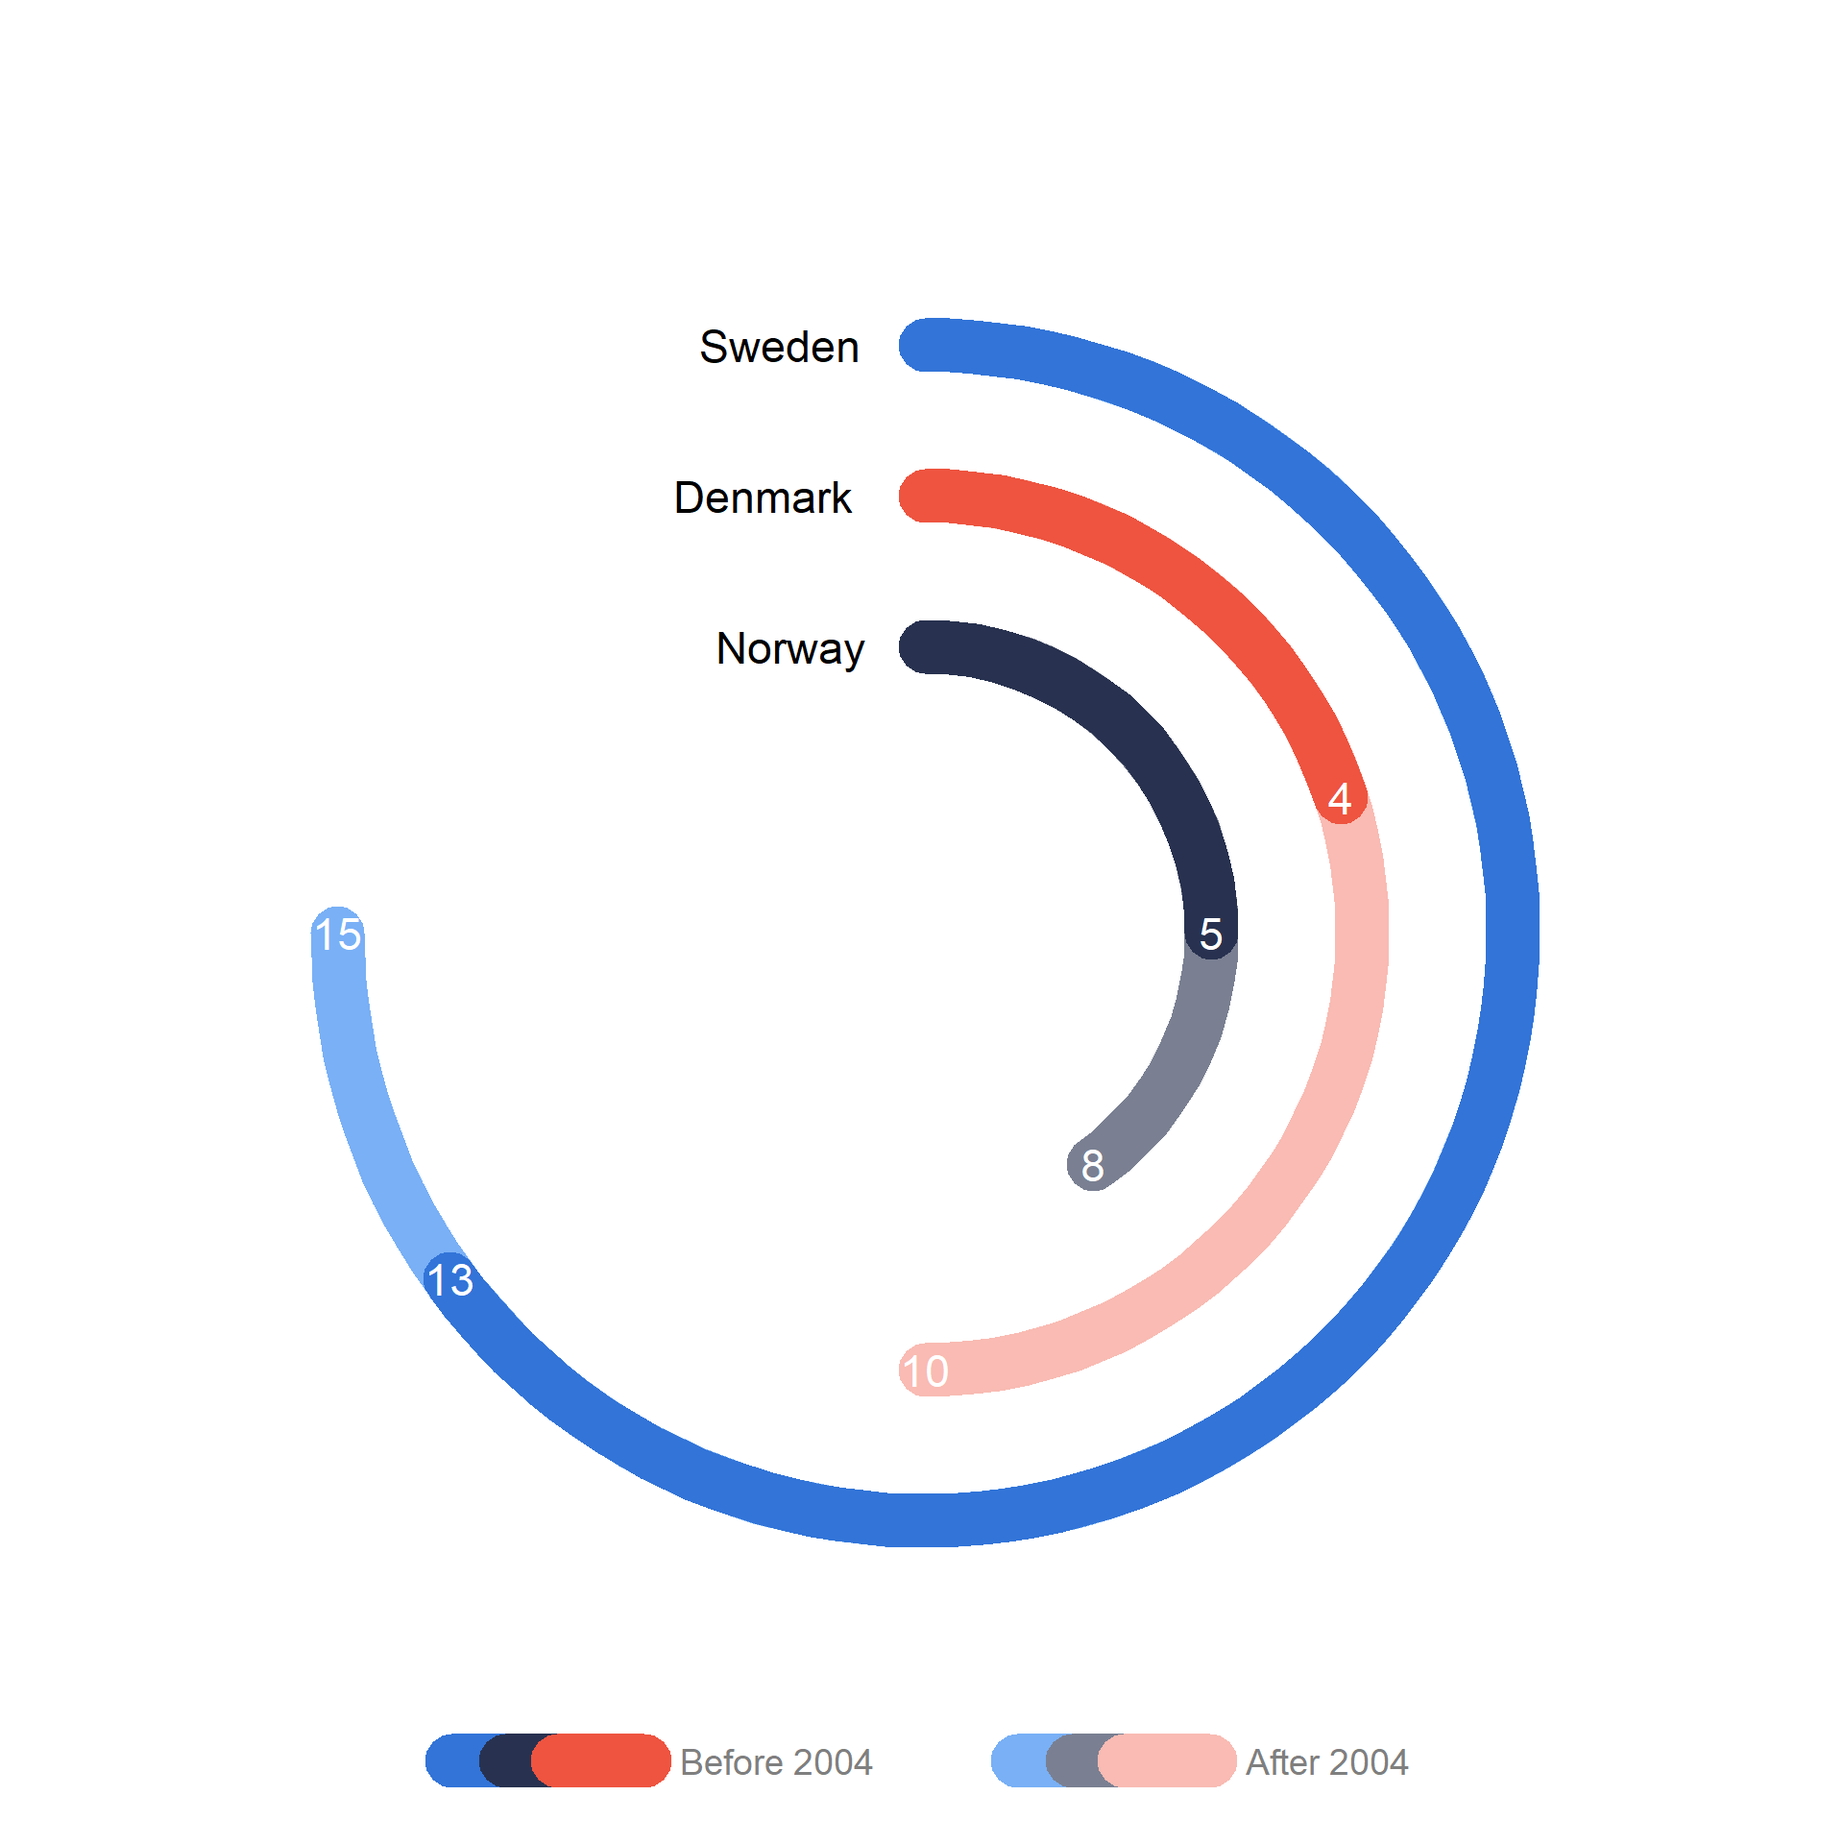
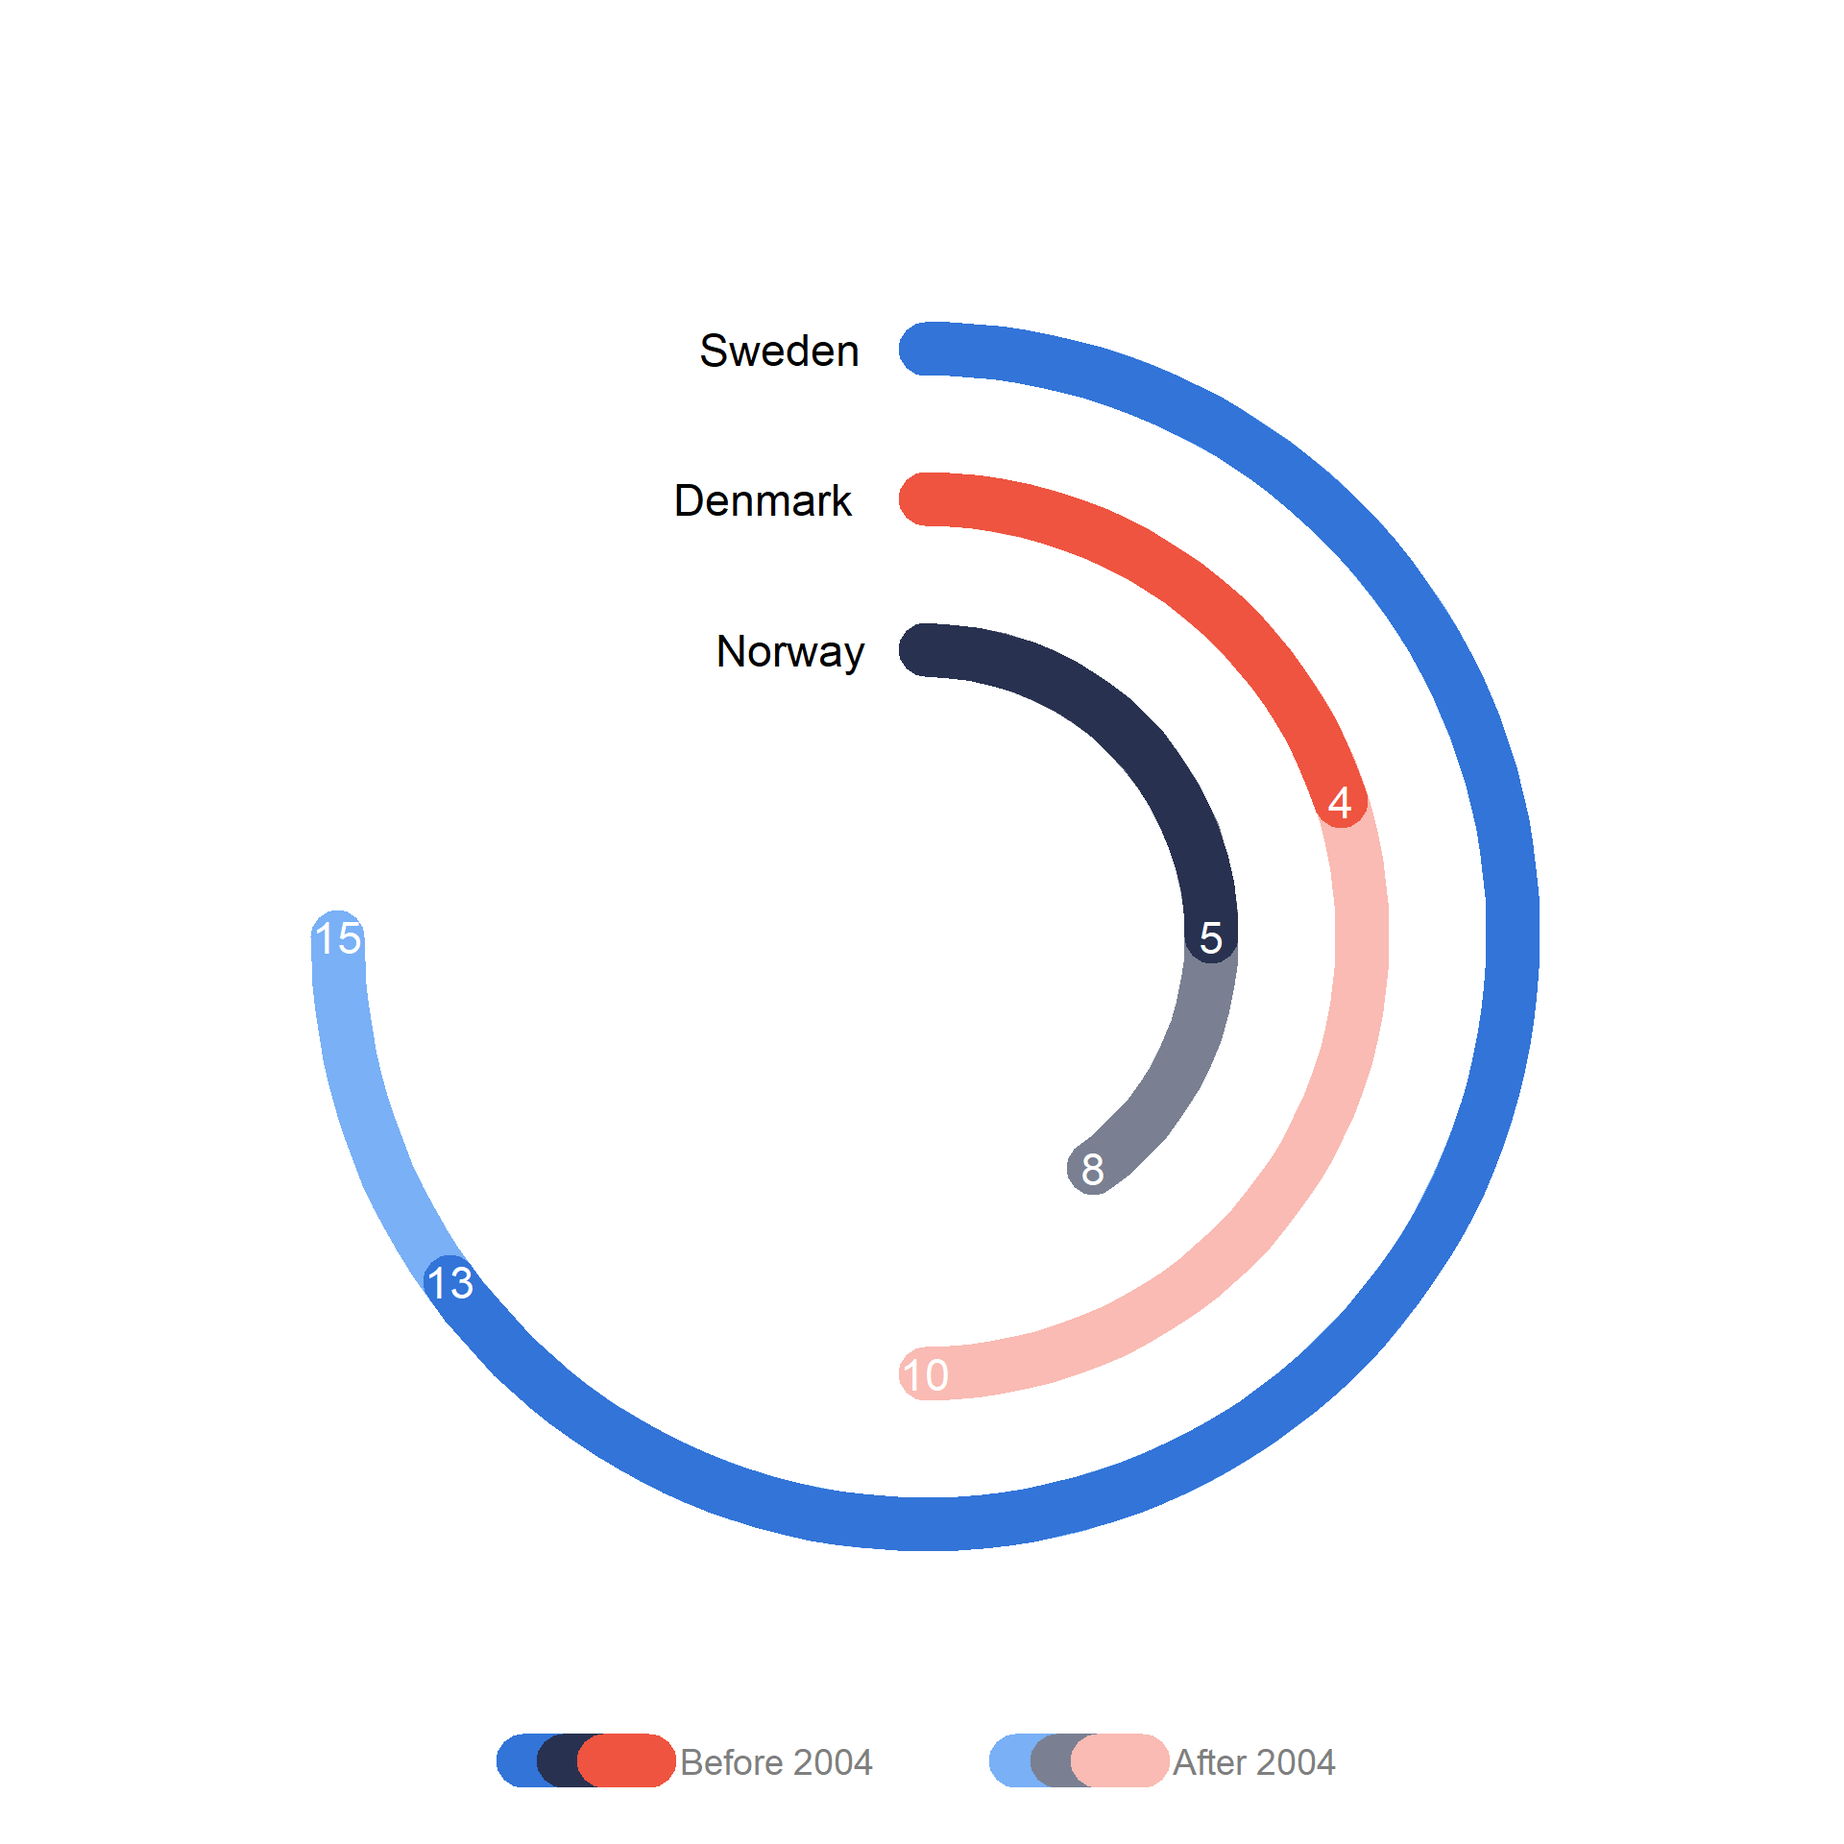
0.112

diff --git a/docs/radial.html b/docs/radial.html
@@ -856,7 +856,7 @@ pre > code.sourceCode > span > a:first-child::before { text-decoration: underlin
 <span>            <span class="fu"><a href="https://ggplot2.tidyverse.org/reference/aes.html">aes</a></span><span class="op">(</span>x <span class="op">=</span> <span class="fl">0</span>, <span class="va">y</span>, label <span class="op">=</span> <span class="va">country</span><span class="op">)</span>, size <span class="op">=</span> <span class="fl">6</span>, hjust <span class="op">=</span> <span class="fl">1.4</span><span class="op">)</span> <span class="op">+</span></span>
 <span>  <span class="fu"><a href="https://ggplot2.tidyverse.org/reference/scale_manual.html">scale_color_manual</a></span><span class="op">(</span>values <span class="op">=</span> <span class="va">cols1</span><span class="op">)</span> <span class="op">+</span></span>
 <span>  <span class="fu"><a href="https://ggplot2.tidyverse.org/reference/guides.html">guides</a></span><span class="op">(</span>color <span class="op">=</span> <span class="fu"><a href="https://ggplot2.tidyverse.org/reference/guide_legend.html">guide_legend</a></span><span class="op">(</span>title <span class="op">=</span> <span class="fu"><a href="https://rdrr.io/r/base/paste.html">paste0</a></span><span class="op">(</span><span class="fu"><a href="https://rdrr.io/r/base/strrep.html">strrep</a></span><span class="op">(</span><span class="st">" "</span>, <span class="fl">7</span><span class="op">)</span>, <span class="st">"After 2004"</span><span class="op">)</span>,</span>
-<span>                              override.aes <span class="op">=</span> <span class="fu"><a href="https://rdrr.io/r/base/list.html">list</a></span><span class="op">(</span>size <span class="op">=</span> <span class="fu"><a href="https://rdrr.io/r/base/c.html">c</a></span><span class="op">(</span><span class="fl">5</span>, <span class="fl">5</span>, <span class="fl">5</span><span class="op">)</span><span class="op">)</span>,</span>
+<span>                              override.aes <span class="op">=</span> <span class="fu"><a href="https://rdrr.io/r/base/list.html">list</a></span><span class="op">(</span>size <span class="op">=</span> <span class="fu"><a href="https://rdrr.io/r/base/c.html">c</a></span><span class="op">(</span><span class="fl">3</span>, <span class="fl">4</span>, <span class="op">-</span><span class="fl">2</span><span class="op">)</span><span class="op">)</span>,</span>
 <span>                              reverse <span class="op">=</span> <span class="cn">TRUE</span>,</span>
 <span>                              keywidth <span class="op">=</span> <span class="fl">1.5</span>, </span>
 <span>                              title.position <span class="op">=</span> <span class="st">"right"</span><span class="op">)</span><span class="op">)</span> <span class="op">+</span></span>
@@ -870,7 +870,7 @@ pre > code.sourceCode > span > a:first-child::before { text-decoration: underlin
 <span>  <span class="fu"><a href="https://ggplot2.tidyverse.org/reference/scale_continuous.html">scale_x_continuous</a></span><span class="op">(</span>limits <span class="op">=</span> <span class="fu"><a href="https://rdrr.io/r/base/c.html">c</a></span><span class="op">(</span><span class="fl">0</span>, <span class="fl">20</span><span class="op">)</span><span class="op">)</span> <span class="op">+</span>  </span>
 <span>  <span class="fu"><a href="https://ggplot2.tidyverse.org/reference/scale_continuous.html">scale_y_continuous</a></span><span class="op">(</span>expand <span class="op">=</span> <span class="fu"><a href="https://ggplot2.tidyverse.org/reference/expansion.html">expansion</a></span><span class="op">(</span>mult <span class="op">=</span> <span class="fl">0.3</span><span class="op">)</span>, limits <span class="op">=</span> <span class="fu"><a href="https://rdrr.io/r/base/c.html">c</a></span><span class="op">(</span><span class="fl">0</span>, <span class="fl">3</span><span class="op">)</span><span class="op">)</span> <span class="op">+</span></span>
 <span>  <span class="fu"><a href="https://ggplot2.tidyverse.org/reference/guides.html">guides</a></span><span class="op">(</span>color <span class="op">=</span> <span class="fu"><a href="https://ggplot2.tidyverse.org/reference/guide_legend.html">guide_legend</a></span><span class="op">(</span>title <span class="op">=</span> <span class="fu"><a href="https://rdrr.io/r/base/paste.html">paste0</a></span><span class="op">(</span><span class="fu"><a href="https://rdrr.io/r/base/strrep.html">strrep</a></span><span class="op">(</span><span class="st">" "</span>, <span class="fl">7</span><span class="op">)</span>, <span class="st">"Before 2004"</span>, <span class="fu"><a href="https://rdrr.io/r/base/strrep.html">strrep</a></span><span class="op">(</span><span class="st">" "</span>, <span class="fl">10</span><span class="op">)</span><span class="op">)</span>,</span>
-<span>                              reverse <span class="op">=</span> <span class="cn">TRUE</span>, override.aes <span class="op">=</span> <span class="fu"><a href="https://rdrr.io/r/base/list.html">list</a></span><span class="op">(</span>size <span class="op">=</span> <span class="fu"><a href="https://rdrr.io/r/base/c.html">c</a></span><span class="op">(</span><span class="fl">5</span>, <span class="fl">5</span>, <span class="fl">5</span><span class="op">)</span><span class="op">)</span>,</span>
+<span>                              reverse <span class="op">=</span> <span class="cn">TRUE</span>, override.aes <span class="op">=</span> <span class="fu"><a href="https://rdrr.io/r/base/list.html">list</a></span><span class="op">(</span>size <span class="op">=</span> <span class="fu"><a href="https://rdrr.io/r/base/c.html">c</a></span><span class="op">(</span><span class="fl">3</span>, <span class="fl">4</span>, <span class="op">-</span><span class="fl">2</span><span class="op">)</span><span class="op">)</span>,</span>
 <span>                              keywidth <span class="op">=</span> <span class="fl">1.5</span>, order <span class="op">=</span> <span class="fl">1</span>,</span>
 <span>                              title.position <span class="op">=</span> <span class="st">"right"</span><span class="op">)</span><span class="op">)</span> <span class="op">+</span></span>
 <span>  <span class="fu"><a href="https://ggplot2.tidyverse.org/reference/coord_polar.html">coord_polar</a></span><span class="op">(</span><span class="op">)</span> <span class="op">+</span></span>
@@ -898,9 +898,9 @@ pre > code.sourceCode > span > a:first-child::before { text-decoration: underlin
 <span>            <span class="fu"><a href="https://ggplot2.tidyverse.org/reference/aes.html">aes</a></span><span class="op">(</span>x <span class="op">=</span> <span class="fl">0</span>, <span class="va">y</span>, label <span class="op">=</span> <span class="va">country</span><span class="op">)</span>, size <span class="op">=</span> <span class="fl">6</span>, hjust <span class="op">=</span> <span class="fl">1.4</span><span class="op">)</span> <span class="op">+</span></span>
 <span>  <span class="fu"><a href="https://ggplot2.tidyverse.org/reference/scale_manual.html">scale_color_manual</a></span><span class="op">(</span>values <span class="op">=</span> <span class="va">cols1</span><span class="op">)</span> <span class="op">+</span></span>
 <span>  <span class="fu"><a href="https://ggplot2.tidyverse.org/reference/guides.html">guides</a></span><span class="op">(</span>color <span class="op">=</span> <span class="fu"><a href="https://ggplot2.tidyverse.org/reference/guide_legend.html">guide_legend</a></span><span class="op">(</span>title <span class="op">=</span> <span class="fu"><a href="https://rdrr.io/r/base/paste.html">paste0</a></span><span class="op">(</span><span class="fu"><a href="https://rdrr.io/r/base/strrep.html">strrep</a></span><span class="op">(</span><span class="st">" "</span>, <span class="fl">7</span><span class="op">)</span>, <span class="st">"After 2004"</span><span class="op">)</span>,</span>
-<span>                              override.aes <span class="op">=</span> <span class="fu"><a href="https://rdrr.io/r/base/list.html">list</a></span><span class="op">(</span>size <span class="op">=</span> <span class="fu"><a href="https://rdrr.io/r/base/c.html">c</a></span><span class="op">(</span><span class="fl">5</span>, <span class="fl">5</span>, <span class="fl">5</span><span class="op">)</span><span class="op">)</span>,</span>
+<span>                              override.aes <span class="op">=</span> <span class="fu"><a href="https://rdrr.io/r/base/list.html">list</a></span><span class="op">(</span>size <span class="op">=</span> <span class="fu"><a href="https://rdrr.io/r/base/c.html">c</a></span><span class="op">(</span><span class="fl">3</span>, <span class="fl">4</span>, <span class="op">-</span><span class="fl">2</span><span class="op">)</span><span class="op">)</span>,</span>
 <span>                              reverse <span class="op">=</span> <span class="cn">TRUE</span>,</span>
-<span>                              keywidth <span class="op">=</span> <span class="fl">1.5</span>, </span>
+<span>                              keywidth <span class="op">=</span> <span class="fl">1.0</span>, </span>
 <span>                              title.position <span class="op">=</span> <span class="st">"right"</span><span class="op">)</span><span class="op">)</span> <span class="op">+</span></span>
 <span>  <span class="fu"><a href="https://eliocamp.github.io/ggnewscale/reference/new_scale.html">new_scale_color</a></span><span class="op">(</span><span class="op">)</span> <span class="op">+</span></span>
 <span>  <span class="fu"><a href="https://ggplot2.tidyverse.org/reference/geom_segment.html">geom_segment</a></span><span class="op">(</span>data <span class="op">=</span> <span class="fu"><a href="https://dplyr.tidyverse.org/reference/filter.html">filter</a></span><span class="op">(</span><span class="va">df</span>, <span class="va">group</span> <span class="op">==</span> <span class="st">"group2"</span><span class="op">)</span>, </span>
@@ -912,8 +912,8 @@ pre > code.sourceCode > span > a:first-child::before { text-decoration: underlin
 <span>  <span class="fu"><a href="https://ggplot2.tidyverse.org/reference/scale_continuous.html">scale_x_continuous</a></span><span class="op">(</span>limits <span class="op">=</span> <span class="fu"><a href="https://rdrr.io/r/base/c.html">c</a></span><span class="op">(</span><span class="fl">0</span>, <span class="fl">20</span><span class="op">)</span><span class="op">)</span> <span class="op">+</span>  </span>
 <span>  <span class="fu"><a href="https://ggplot2.tidyverse.org/reference/scale_continuous.html">scale_y_continuous</a></span><span class="op">(</span>expand <span class="op">=</span> <span class="fu"><a href="https://ggplot2.tidyverse.org/reference/expansion.html">expansion</a></span><span class="op">(</span>mult <span class="op">=</span> <span class="fl">0.3</span><span class="op">)</span>, limits <span class="op">=</span> <span class="fu"><a href="https://rdrr.io/r/base/c.html">c</a></span><span class="op">(</span><span class="fl">0</span>, <span class="fl">3</span><span class="op">)</span><span class="op">)</span> <span class="op">+</span></span>
 <span>  <span class="fu"><a href="https://ggplot2.tidyverse.org/reference/guides.html">guides</a></span><span class="op">(</span>color <span class="op">=</span> <span class="fu"><a href="https://ggplot2.tidyverse.org/reference/guide_legend.html">guide_legend</a></span><span class="op">(</span>title <span class="op">=</span> <span class="fu"><a href="https://rdrr.io/r/base/paste.html">paste0</a></span><span class="op">(</span><span class="fu"><a href="https://rdrr.io/r/base/strrep.html">strrep</a></span><span class="op">(</span><span class="st">" "</span>, <span class="fl">7</span><span class="op">)</span>, <span class="st">"Before 2004"</span>, <span class="fu"><a href="https://rdrr.io/r/base/strrep.html">strrep</a></span><span class="op">(</span><span class="st">" "</span>, <span class="fl">10</span><span class="op">)</span><span class="op">)</span>,</span>
-<span>                              reverse <span class="op">=</span> <span class="cn">TRUE</span>, override.aes <span class="op">=</span> <span class="fu"><a href="https://rdrr.io/r/base/list.html">list</a></span><span class="op">(</span>size <span class="op">=</span> <span class="fu"><a href="https://rdrr.io/r/base/c.html">c</a></span><span class="op">(</span><span class="fl">5</span>, <span class="fl">5</span>, <span class="fl">5</span><span class="op">)</span><span class="op">)</span>,</span>
-<span>                              keywidth <span class="op">=</span> <span class="fl">1.5</span>, order <span class="op">=</span> <span class="fl">1</span>,</span>
+<span>                              reverse <span class="op">=</span> <span class="cn">TRUE</span>, override.aes <span class="op">=</span> <span class="fu"><a href="https://rdrr.io/r/base/list.html">list</a></span><span class="op">(</span>size <span class="op">=</span> <span class="fu"><a href="https://rdrr.io/r/base/c.html">c</a></span><span class="op">(</span><span class="fl">3</span>, <span class="fl">4</span>, <span class="op">-</span><span class="fl">2</span><span class="op">)</span><span class="op">)</span>,</span>
+<span>                              keywidth <span class="op">=</span> <span class="fl">1.0</span>, order <span class="op">=</span> <span class="fl">1</span>,</span>
 <span>                              title.position <span class="op">=</span> <span class="st">"right"</span><span class="op">)</span><span class="op">)</span> <span class="op">+</span></span>
 <span>  <span class="fu"><a href="https://ggplot2.tidyverse.org/reference/coord_polar.html">coord_polar</a></span><span class="op">(</span><span class="op">)</span> <span class="op">+</span></span>
 <span>  <span class="fu"><a href="https://ggplot2.tidyverse.org/reference/theme.html">theme</a></span><span class="op">(</span>panel.background <span class="op">=</span> <span class="fu"><a href="https://ggplot2.tidyverse.org/reference/element.html">element_blank</a></span><span class="op">(</span><span class="op">)</span>,</span>
